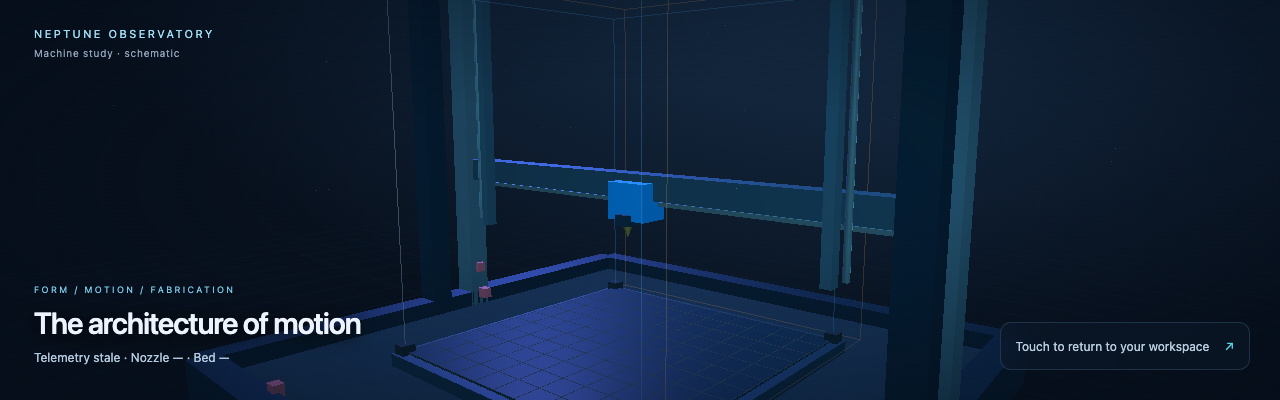
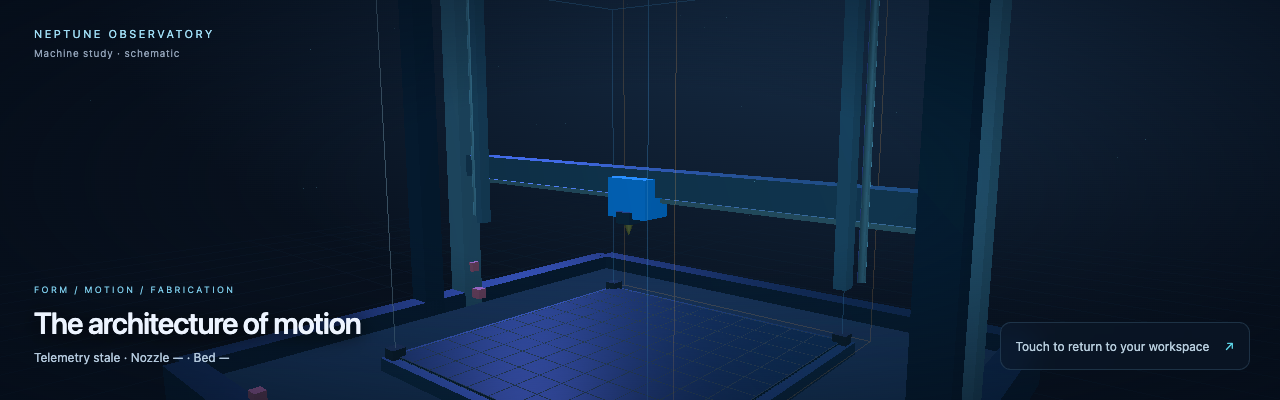
test: cover real telemetry interruptions and iframe idle lifecycle

diff --git a/integrations/mks-wifi/src/mks_wifi_bridge/static/hmi_idle.js b/integrations/mks-wifi/src/mks_wifi_bridge/static/hmi_idle.js
@@ -3,7 +3,7 @@ export function createIdleExperience(win=window, idleMs=150000) {
  const doc=win.document, app=doc.getElementById('app'), overlay=doc.getElementById('idle-overlay');
  const reduced=()=>win.matchMedia('(prefers-reduced-motion: reduce)').matches;
  let phase='active',timer,transition,lastActivity=Date.now(),releaseAt=0,disposed=false,restoreFocus=null;
- const pointers=new Set(),keys=new Set(),bound=new Map(),frameObservers=[];
+ const pointers=new Set(),keys=new Set(),bound=new Map(),frameObservers=new Map();
  const clock=()=>Date.now();
  function setPhase(value){phase=value;doc.body.dataset.idlePhase=value;win.dispatchEvent(new win.CustomEvent('hmi:cinematic',{detail:{active:value==='entering'||value==='cinematic',phase:value}}));}
  function schedule(delay=idleMs){win.clearTimeout(timer);timer=win.setTimeout(check,delay);}
@@ -26,9 +26,9 @@ export function createIdleExperience(win=window, idleMs=150000) {
   lastActivity=clock();schedule();
  }
  const events=['pointerdown','pointerup','pointercancel','pointermove','click','keydown','keyup','wheel','input'];
- function bind(d){if(!d||bound.has(d))return;for(const event of events)d.addEventListener(event,activity,{capture:true,passive:false});bound.set(d,true);if(d!==doc){const observer=new win.MutationObserver(()=>{if(phase!=='active'&&blocked())wake();});observer.observe(d,{subtree:true,attributes:true,attributeFilter:['open','class']});frameObservers.push(observer);}}
+ function bind(d){if(!d||bound.has(d))return;for(const event of events)d.addEventListener(event,activity,{capture:true,passive:false});bound.set(d,true);if(d!==doc){const observer=new win.MutationObserver(()=>{if(phase!=='active'&&blocked())wake();});observer.observe(d,{subtree:true,attributes:true,attributeFilter:['open','class']});frameObservers.set(d,observer);}}
  bind(doc);const frames=[...doc.querySelectorAll('iframe')];const loads=[];
- for(const frame of frames){const handler=()=>{try{bind(frame.contentDocument);}catch{}};frame.addEventListener('load',handler);loads.push([frame,handler]);handler();}
+ for(const frame of frames){let previous=null;const handler=()=>{try{const current=frame.contentDocument;if(previous&&previous!==current){for(const event of events)previous.removeEventListener(event,activity,true);bound.delete(previous);frameObservers.get(previous)?.disconnect();frameObservers.delete(previous);}bind(current);previous=current;}catch{}};frame.addEventListener('load',handler);loads.push([frame,handler]);handler();}
  function visibility(){if(doc.hidden){if(phase!=='active')wake();}else{lastActivity=clock();if(phase==='active')schedule();}}
  function interrupt(){wake();}
  doc.addEventListener('visibilitychange',visibility);win.addEventListener('hmi:interrupt',interrupt);
@@ -36,6 +36,6 @@ export function createIdleExperience(win=window, idleMs=150000) {
  const observer=new win.MutationObserver(()=>{if(phase!=='active'&&blocked())wake();});
  observer.observe(doc,{subtree:true,attributes:true,attributeFilter:['open','class']});
  setPhase('active');schedule();
- return {get phase(){return phase;},get snapshot(){return {phase,idleFor:clock()-lastActivity,heldPointers:pointers.size,heldKeys:keys.size,blocked:blocked(),hidden:doc.hidden};},dispose(){disposed=true;win.clearTimeout(timer);win.clearTimeout(transition);observer.disconnect();frameObservers.forEach(o=>o.disconnect());for(const d of bound.keys())for(const e of events)d.removeEventListener(e,activity,true);for(const [f,h] of loads)f.removeEventListener('load',h);doc.removeEventListener('visibilitychange',visibility);win.removeEventListener('hmi:interrupt',interrupt);app.inert=false;overlay.hidden=true;}};
+ return {get phase(){return phase;},get snapshot(){return {phase,idleFor:clock()-lastActivity,heldPointers:pointers.size,heldKeys:keys.size,blocked:blocked(),hidden:doc.hidden};},dispose(){disposed=true;win.clearTimeout(timer);win.clearTimeout(transition);observer.disconnect();frameObservers.forEach(o=>o.disconnect());for(const d of bound.keys())for(const e of events)d.removeEventListener(e,activity,true);for(const [f,h] of loads)f.removeEventListener('load',h);doc.removeEventListener('visibilitychange',visibility);win.removeEventListener('hmi:interrupt',interrupt);app.inert=false;overlay.hidden=true;overlay.setAttribute('aria-hidden','true');setPhase('active');}};
 }
 export const idleExperience=typeof window!=='undefined'&&document.getElementById('idle-overlay')?createIdleExperience():null;

diff --git a/integrations/mks-wifi/src/mks_wifi_bridge/static/hmi_ambience.js b/integrations/mks-wifi/src/mks_wifi_bridge/static/hmi_ambience.js
@@ -39,5 +39,5 @@ try{
   renderer.render(scene,camera);painted=true;
  }
  frame=requestAnimationFrame(draw);host.dataset.renderer='ready';
- addEventListener('pagehide',()=>{disposed=true;cancelAnimationFrame(frame);scene.traverse(o=>{o.geometry?.dispose();if(Array.isArray(o.material))o.material.forEach(m=>m.dispose());else o.material?.dispose();});renderer.dispose();},{once:true});
+ addEventListener('pagehide',event=>{if(event.persisted)return;disposed=true;cancelAnimationFrame(frame);scene.traverse(o=>{o.geometry?.dispose();if(Array.isArray(o.material))o.material.forEach(m=>m.dispose());else o.material?.dispose();});renderer.dispose();});
 }catch{host.dataset.renderer='unavailable';}
